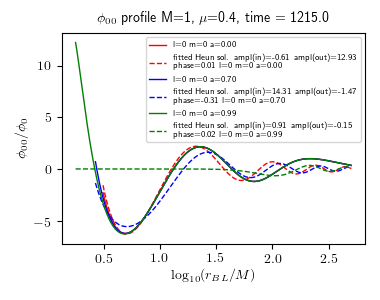
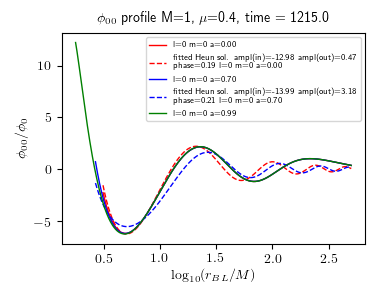
new plot

diff --git a/Analysis/scripts/plot_radial_profile_phi_compare_Y00_vs_Heun.py b/Analysis/scripts/plot_radial_profile_phi_compare_Y00_vs_Heun.py
@@ -203,7 +203,8 @@ def plot_graph():
 			y = dd.phi
 		ax1.plot(x, y, colours[i] + "-", label="l={:d} m={:d} a={:.2f}".format(dd.l, dd.m, dd.a), linewidth=1)
 		# plot fitted solution
-		fit_comb_solution(ax1, dd, (1, 0, 0), colours[i])
+		if (dd.a < 0.9):
+			fit_comb_solution(ax1, dd, (1, 0.2, 0.2), colours[i])
 		#impose_comb_solution(ax1, dd, (0, 1, 0.2), colours2[i])
 		#impose_solution(ax1, dd, (1, 0), colours2[i])
 	if log_y:
